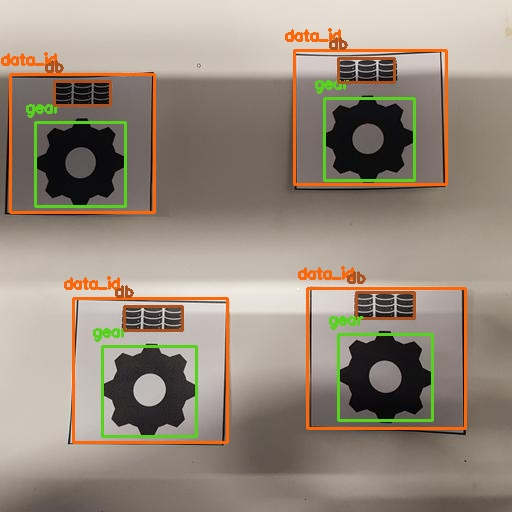
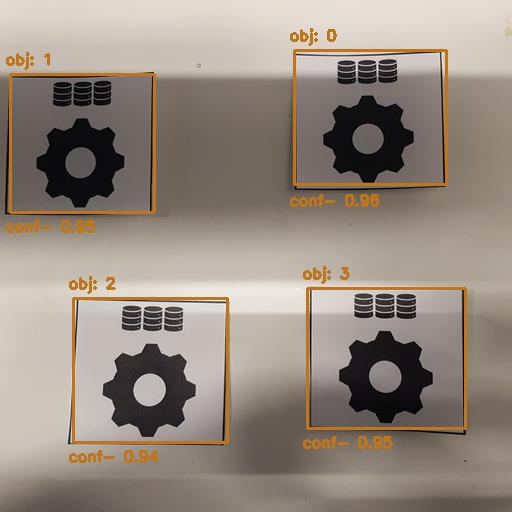
have the tracked objects and their properties, need to figure out angles now

diff --git a/src/main.py b/src/main.py
@@ -16,6 +16,7 @@ def main():
     import cv2
     import argparse
     import numpy as np
+    import orient_calc as oc
 
     Width = 512
     Height = 512
@@ -57,15 +58,25 @@ def main():
         return output_layers
 
     # function to draw bounding box on the detected object with class name
-    def draw_bounding_box(img, class_id, confidence, x, y, x_plus_w, y_plus_h):
+    def draw_bounding_box(img, obj):
 
-        label = str(classes[class_id])
+        label = obj.Label
+        confidence = 'conf- ' + str(obj.confidence)
 
         color = COLORS[class_id]
 
-        cv2.rectangle(img, (x,y), (x_plus_w,y_plus_h), color, 2)
+        x = round(obj.center[0])
+        y = round(obj.center[1])
+        obj_width = round(obj.center[0] + (obj.dims[0]))
+        obj_height = round(obj.center[1] + (obj.dims[1]))
 
-        cv2.putText(img, label, (x-10,y-10), cv2.FONT_HERSHEY_SIMPLEX, 0.5, color, 2)
+        print(x, y)
+        print(obj.dims[1])
+
+        cv2.rectangle(img, (x,y), (obj_width,obj_height), color, 2)
+
+        cv2.putText(img, label, (x-5,y-10), cv2.FONT_HERSHEY_SIMPLEX, 0.5, color, 2)
+        cv2.putText(img, confidence, (x-5,y+obj.dims[1]+20), cv2.FONT_HERSHEY_SIMPLEX, 0.5, color, 2)
 
     # run inference through the network
     # and gather predictions from output layers
@@ -75,6 +86,9 @@ def main():
     class_ids = []
     confidences = []
     boxes = []
+    objects = []
+    gears = []
+    dbs = []
     conf_threshold = 0.5
     nms_threshold = 0.4
 
@@ -106,14 +120,52 @@ def main():
     for i in indices:
         i = i[0]
         box = boxes[i]
-        x = box[0]
-        y = box[1]
-        w = box[2]
-        h = box[3]
 
-        print(h)
+        if(class_ids[i] == 0):
+            new_obj = oc.track_obj()
+            new_obj.Label = 'obj: ' + str(i)
+            new_obj.center = (box[0],box[1])
+            new_obj.dims = (box[2],box[3])
+            new_obj.confidence = round(confidences[i],2)
+            objects.append(new_obj)
+
+        elif(class_ids[i] == 1):
+            gears.append(box)
+
+        elif(class_ids[i] == 2):
+            dbs.append(box)
+
+        # x = box[0]
+        # y = box[1]
+        # w = box[2]
+        # h = box[3]
         
-        draw_bounding_box(image, class_ids[i], confidences[i], round(x), round(y), round(x+w), round(y+h))
+        # #only print the main id class box, its all we care about in the end and we done want the screen crowded
+        # if(class_ids[i] == 0):
+        #     draw_bounding_box(image, class_ids[i], confidences[i], round(x), 
+        #                       round(y), round(x+w), round(y+h))
+    
+    for obj in objects:
+
+        for gear in gears:
+            if(oc.in_main_obj(obj,gear)):
+                obj.center_g = (gear[0],gear[1])
+                obj.dims_g = (gear[2],gear[3])
+                print("gear added")
+                break
+
+        for db in dbs:
+            if(oc.in_main_obj(obj,db)):
+                obj.center_d = (db[0],db[1])
+                obj.dims_d = (db[2],db[3])
+                print("db added")
+                break
+
+    for obj in objects:
+
+        draw_bounding_box(image, obj)
+
+
 
     # display output image    
     cv2.imshow("object detection", image)

diff --git a/src/orient_calc.py b/src/orient_calc.py
@@ -7,19 +7,17 @@ class track_obj():
         #overall orientation
         self.inplane_rot = None
         self.orbit_rot = None
-        self.center_a = None
-        self.width_a = None
-        self.height_a = None
+        self.center = None
+        self.dims = None
+        self.confidence = None
 
         #gear icon position
         self.center_g = None
-        self.width_g = None
-        self.height_g = None
+        self.dims_g = None
 
         #db icon position
         self.center_d = None
-        self.width_d = None
-        self.height_d = None
+        self.dims_d = None
 
         #calculate the inplane orientation of the tacked object
         def get_inplane(self):
@@ -31,12 +29,37 @@ class track_obj():
             #for y axis rotation use distance between gear and db
             pass
 
-        #get the current scale of the current tracked object
+        #get the scale of the current tracked object
         def get_scale(self):
             #use box areas expected vs actual for a given angle/rotation
             pass
 
 
+def in_main_obj(main_obj,child_obj):
+    """
+    helper function to detect if the child_obj is part of the main_obj
+    """
+    #get bounding box dims for the main box
+    main_left = main_obj.center[0] - (main_obj.dims[0]/2)
+    main_right = main_obj.center[0] + (main_obj.dims[0]/2)
+    main_top = main_obj.center[1] + (main_obj.dims[1]/2)
+    main_bottom = main_obj.center[1] - (main_obj.dims[1]/2)
+
+    #get bools for child object positions
+    in_left = (child_obj[0] > main_left)
+    in_right = (child_obj[0] < main_right)
+    in_top = (child_obj[1] < main_top)
+    in_bottom = (child_obj[1] > main_bottom)
+
+    # print('\n\n++++++++++++')
+    # print(in_left)
+    # print(in_right)
+    # print(in_top)
+    # print(in_bottom)
+
+    #see if child object is in the main object
+    if(in_left and in_right and in_top and in_bottom): return 1
+    else: return 0
 
 
 
